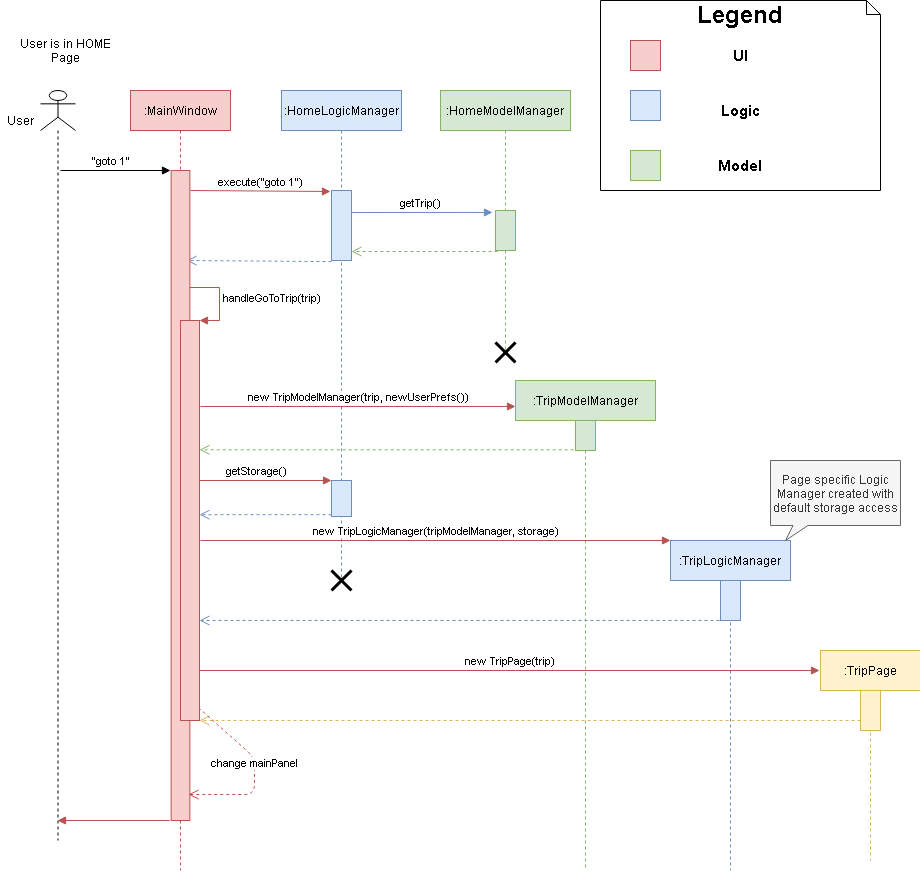
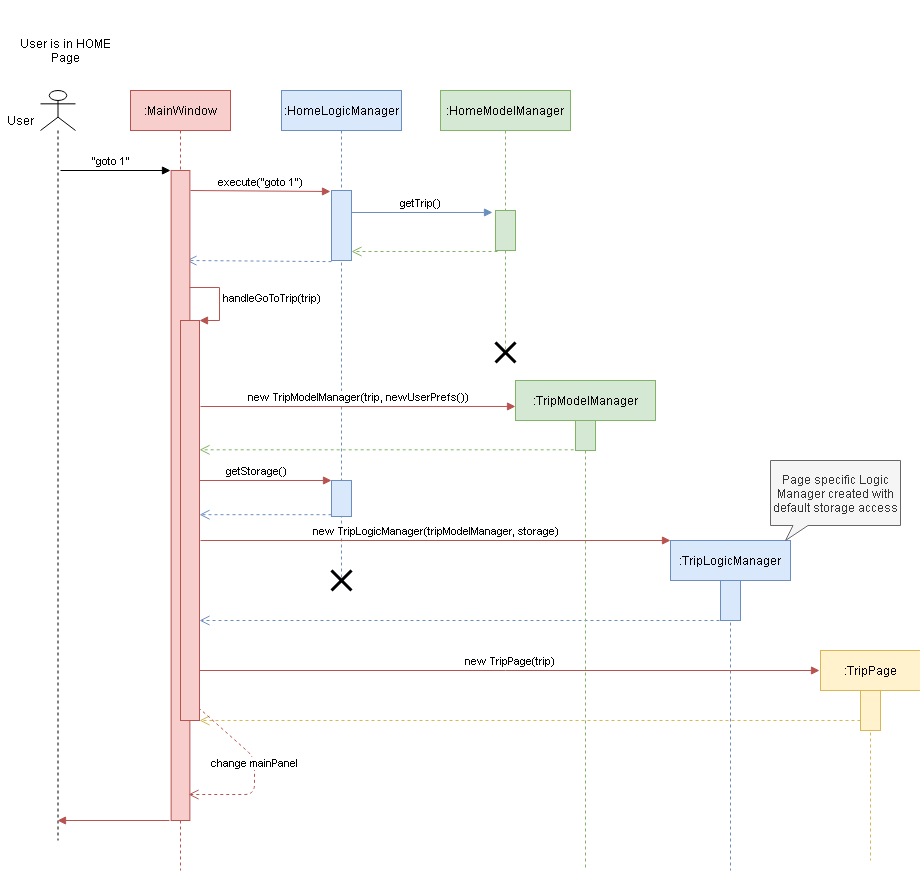
Rebuild pages at be37547c48dcacc990979f6f276a2c844f7ef29d

diff --git a/DeveloperGuide.html b/DeveloperGuide.html
@@ -67,6 +67,10 @@ application work together.</p>
 <div class="paragraph">
 <p><strong>Reading this Developer Guide</strong></p>
 </div>
+<div class="ulist">
+<ul>
+<li>
+<p><strong>Important Notations</strong><br></p>
 <div class="admonitionblock tip">
 <table>
 <tr>
@@ -90,6 +94,18 @@ This icon denotes important details to take note of during development.
 </td>
 </tr>
 </table>
+</div>
+</li>
+<li>
+<p><strong>Understanding Diagrams</strong><br>
+The diagrams in this Developer Guide are colour coded according to the different components.</p>
+<div class="imageblock">
+<div class="content">
+<img src="/images/dg-diagram-legend.png" alt="dg diagram legend">
+</div>
+</div>
+</li>
+</ul>
 </div>
 </div>
 </div>
@@ -199,21 +215,22 @@ for command execution on the <code>JOURNAL</code> page.</p>
 <p>The <em>Sequence Diagram</em> below shows how the components interact with each other for the scenario where the user issues
 the command <code>back</code> when in a <code>TRIP</code> view. View switching is executed by the <code>Ui</code> component.</p>
 </div>
-<div class="imageblock" style="text-align: center">
+<div id="view-switch-sequence" class="imageblock" style="text-align: center">
 <div class="content">
 <img src="images/ArchitectureSequenceDiagram.png" alt="ArchitectureSequenceDiagram">
 </div>
 <div class="title">Figure 3. Component interactions for <code>back</code> command in the <code>TRIP</code> view.</div>
 </div>
 <div class="paragraph">
-<p>The <em>Sequence Diagram</em> below illustrates how the components interact with each other for the scenario where the user issues the command <code>goto 1</code> when in a <code>HomePage</code> view.
+<p>The <em>Sequence Diagram</em> below illustrates how the components interact with each other for the scenario where the user
+issues the command <code>goto 1</code> when in a <code>HOME</code> page view.
 View switching is executed by the <code>Ui</code> component.</p>
 </div>
 <div class="imageblock" style="text-align: center">
 <div class="content">
 <img src="images/gotoCommandSequenceDiagram.png" alt="gotoCommandSequenceDiagram">
 </div>
-<div class="title">Figure 4. Component interactions for <code>goto 1</code> command in the <code>HomePage</code> view.</div>
+<div class="title">Figure 4. Component interactions for <code>goto 1</code> command in the <code>HOME</code> page view.</div>
 </div>
 <div class="paragraph">
 <p>The sections below give more details about each component.</p>
@@ -278,11 +295,8 @@ For example, <code>goto</code>, <code>back</code> and <code>home</code> navigati
 </li>
 </ol>
 </div>
-<div class="imageblock" style="text-align: center">
-<div class="content">
-<img src="images/ArchitectureSequenceDiagram.png" alt="ArchitectureSequenceDiagram">
-</div>
-<div class="title">Figure 6. Component interactions for <code>back</code> command in the <code>TRIP</code> view.</div>
+<div class="paragraph">
+<p><a href="#view-switch-sequence">You can view the sequence diagram for this process here.</a></p>
 </div>
 </div>
 </div>
@@ -297,7 +311,7 @@ For example, <code>goto</code>, <code>back</code> and <code>home</code> navigati
 <div class="content">
 <img src="images/JournalLogic.png" alt="JournalLogic">
 </div>
-<div class="title">Figure 7. Structure of the Logic Component</div>
+<div class="title">Figure 6. Structure of the Logic Component</div>
 </div>
 <div class="paragraph">
 <p><strong>API</strong> :
@@ -329,7 +343,7 @@ For example, <code>goto</code>, <code>back</code> and <code>home</code> navigati
 <div class="content">
 <img src="images/DeleteItinerary.png" alt="DeleteItinerary">
 </div>
-<div class="title">Figure 8. Interactions Inside the Logic Component for the <code>delete 1</code> Command</div>
+<div class="title">Figure 7. Interactions Inside the Logic Component for the <code>delete 1</code> Command</div>
 </div>
 </div>
 <div class="sect2">
@@ -338,7 +352,7 @@ For example, <code>goto</code>, <code>back</code> and <code>home</code> navigati
 <div class="content">
 <img src="images/JournalModelDiagram.png" alt="JournalModelDiagram">
 </div>
-<div class="title">Figure 9. Structure of the Model Component in Journal</div>
+<div class="title">Figure 8. Structure of the Model Component in Journal</div>
 </div>
 <div class="paragraph">
 <p><strong>API</strong> : <a href="https://github.com/AY1920S2-CS2103T-F09-4/main/src/main/java/seedu/location/model/Model.java"><code>Model.java</code></a></p>
@@ -366,7 +380,7 @@ For example, <code>goto</code>, <code>back</code> and <code>home</code> navigati
 <div class="content">
 <img src="images/ItineraryModelDiagram.png" alt="ItineraryModelDiagram">
 </div>
-<div class="title">Figure 10. Structure of the Model Component in Itinerary</div>
+<div class="title">Figure 9. Structure of the Model Component in Itinerary</div>
 </div>
 <div class="paragraph">
 <p>The <code>Model</code> for <code>ITINERARY</code>,
@@ -395,7 +409,7 @@ For example, <code>goto</code>, <code>back</code> and <code>home</code> navigati
 <div class="content">
 <img src="images/StorageClassDiagram.png" alt="StorageClassDiagram">
 </div>
-<div class="title">Figure 11. Structure of the Storage Component</div>
+<div class="title">Figure 10. Structure of the Storage Component</div>
 </div>
 <div class="paragraph">
 <p><strong>API</strong> : <a href="https://github.com/AY1920S2-CS2103T-F09-4/main/blob/master/src/main/java/seedu/volant/commons/storage/Storage.java"><code>Storage.java</code></a></p>
@@ -431,7 +445,7 @@ For example, <code>goto</code>, <code>back</code> and <code>home</code> navigati
 <div class="sect2">
 <h3 id="implementation-view-switching"><a class="link" href="#implementation-view-switching">4.1. View Switching for Navigation Commands</a></h3>
 <div class="paragraph">
-<p>The entire process of view switching is done in the <code>MainWindow</code> class.</p>
+<p>The entire process of view switching is executed in the <code>MainWindow.java</code> class.</p>
 </div>
 <div class="admonitionblock tip">
 <table>
@@ -536,7 +550,7 @@ displayed.</p>
 <div class="content">
 <img src="images/AddTripActivityDiagram.png" alt="AddTripActivityDiagram">
 </div>
-<div class="title">Figure 12. Activity Diagram for <code>add</code> Command</div>
+<div class="title">Figure 11. Activity Diagram for <code>add</code> Command</div>
 </div>
 </div>
 <div class="sect3">
@@ -628,7 +642,7 @@ The sort feature allows user to sort the entries in the <code>JOURNAL</code> of 
 <div class="content">
 <img src="images/SortActivityDiagram.png" alt="SortActivityDiagram" width="]">
 </div>
-<div class="title">Figure 13. Activity Diagram for <code>sort</code> Command</div>
+<div class="title">Figure 12. Activity Diagram for <code>sort</code> Command</div>
 </div>
 </div>
 </div>
@@ -689,7 +703,7 @@ The sort feature allows user to sort the entries in the <code>JOURNAL</code> of 
 <div class="content">
 <img src="images/AddActivity.png" alt="AddActivity" width="]">
 </div>
-<div class="title">Figure 14. Activity Diagram for <code>add</code> Command</div>
+<div class="title">Figure 13. Activity Diagram for <code>add</code> Command</div>
 </div>
 </div>
 <div class="sect3">
@@ -756,7 +770,7 @@ The sort feature allows user to sort the entries in the <code>JOURNAL</code> of 
 <div class="content">
 <img src="images/FindItinerary.png" alt="FindItinerary" width="]">
 </div>
-<div class="title">Figure 15. Activity Diagram for <code>find</code> Command</div>
+<div class="title">Figure 14. Activity Diagram for <code>find</code> Command</div>
 </div>
 </div>
 <div class="sect3">
@@ -807,7 +821,7 @@ The sort feature allows user to sort the entries in the <code>JOURNAL</code> of 
 <div class="content">
 <img src="images/user-guide/data-storage.png" alt="data storage">
 </div>
-<div class="title">Figure 16. Data Storage in Volant</div>
+<div class="title">Figure 15. Data Storage in Volant</div>
 </div>
 <div class="paragraph">
 <p>The data files are organised in a way that trip details are stored in <code>volant.json</code>, while journal and itinerary details
@@ -907,7 +921,7 @@ time, location, feeling and weather.</p>
 <div class="content">
 <img src="images/addTripStorageActivityDiagram.png" alt="addTripStorageActivityDiagram">
 </div>
-<div class="title">Figure 17. Activity diagram for adding a new trip</div>
+<div class="title">Figure 16. Activity diagram for adding a new trip</div>
 </div>
 <div class="paragraph">
 <p>The process is similar for the scenario where the user adds a new activity to the itinerary, and the <code>itinerary.json</code>
@@ -917,7 +931,7 @@ data file is updated. The following activity diagram summarises this process:</p
 <div class="content">
 <img src="images/addActivityStorageActivityDiagram.png" alt="addActivityStorageActivityDiagram">
 </div>
-<div class="title">Figure 18. Activity diagram for adding a new activity</div>
+<div class="title">Figure 17. Activity diagram for adding a new activity</div>
 </div>
 </div>
 <div class="sect3">
@@ -959,7 +973,7 @@ deleted.</p>
 <div class="content">
 <img src="images/editTripStorageActivityDiagram.png" alt="editTripStorageActivityDiagram">
 </div>
-<div class="title">Figure 19. Activity diagram for editing a trip</div>
+<div class="title">Figure 18. Activity diagram for editing a trip</div>
 </div>
 </div>
 <div class="sect3">
@@ -1000,7 +1014,7 @@ summarises what happens when a user deletes a journal entry or itinerary activit
 <div class="content">
 <img src="images/deleteStorageActivityDiagram.png" alt="deleteStorageActivityDiagram">
 </div>
-<div class="title">Figure 20. Activity diagram for deleting a journal entry/itinerary activity</div>
+<div class="title">Figure 19. Activity diagram for deleting a journal entry/itinerary activity</div>
 </div>
 </div>
 </div>
@@ -2045,4 +2059,4 @@ Expected: Similar to previous.</p>
 </div>
 </div>
 </div>
-</div></div><div id="footer"><div class="container"><div id="footer-text">Last updated 2020-04-13 09:43:06 UTC</div></div></div></body></html>
+</div></div><div id="footer"><div class="container"><div id="footer-text">Last updated 2020-04-13 09:56:24 UTC</div></div></div></body></html>

diff --git a/Testing.html b/Testing.html
@@ -90,4 +90,4 @@ e.g. <code>seedu.volant.home.logic.HomeLogicManagerTest</code></p>
 <div class="title">Figure 1. <code>Accessibility</code> permission is granted to <code>IntelliJ IDEA</code></div>
 </div>
 </div>
-</div></div><div id="footer"><div class="container"><div id="footer-text">Last updated 2020-04-13 09:43:06 UTC</div></div></div></body></html>
+</div></div><div id="footer"><div class="container"><div id="footer-text">Last updated 2020-04-13 09:56:24 UTC</div></div></div></body></html>

diff --git a/ContactUs.html b/ContactUs.html
@@ -9,4 +9,4 @@
 <p><strong>Contributing</strong> : We welcome pull requests. Follow the process described <a href="https://github.com/oss-generic/process">here</a></p>
 </li>
 </ul>
-</div></div><div id="footer"><div class="container"><div id="footer-text">Last updated 2020-04-13 09:43:06 UTC</div></div></div></body></html>
+</div></div><div id="footer"><div class="container"><div id="footer-text">Last updated 2020-04-13 09:56:24 UTC</div></div></div></body></html>

diff --git a/LearningOutcomes.html b/LearningOutcomes.html
@@ -474,4 +474,4 @@ of storages, but different number of storages (e.g. save to both a text file and
 </div>
 </div>
 </div>
-</div></div><div id="footer"><div class="container"><div id="footer-text">Last updated 2020-04-13 09:43:06 UTC</div></div></div></body></html>
+</div></div><div id="footer"><div class="container"><div id="footer-text">Last updated 2020-04-13 09:56:24 UTC</div></div></div></body></html>

diff --git a/SettingUp.html b/SettingUp.html
@@ -180,4 +180,4 @@ Having both Travis and AppVeyor ensures your App works on both Unix-based platfo
 </div>
 </div>
 </div>
-</div></div><div id="footer"><div class="container"><div id="footer-text">Last updated 2020-04-13 09:43:06 UTC</div></div></div></body></html>
+</div></div><div id="footer"><div class="container"><div id="footer-text">Last updated 2020-04-13 09:56:24 UTC</div></div></div></body></html>

diff --git a/team/grrrrnt.html b/team/grrrrnt.html
@@ -148,4 +148,4 @@ This is especially useful since the words "itinerary" and "journal" may be long 
 </div>
 </div>
 </div>
-</div></div><div id="footer"><div class="container"><div id="footer-text">Last updated 2020-04-13 09:43:06 UTC</div></div></div></body></html>
+</div></div><div id="footer"><div class="container"><div id="footer-text">Last updated 2020-04-13 09:56:24 UTC</div></div></div></body></html>

diff --git a/team/raniceyue.html b/team/raniceyue.html
@@ -256,4 +256,4 @@ I have made a total of 7 issues, one sharing technical information and another w
 </div>
 </div>
 </div>
-</div></div><div id="footer"><div class="container"><div id="footer-text">Last updated 2020-04-13 09:43:06 UTC</div></div></div></body></html>
+</div></div><div id="footer"><div class="container"><div id="footer-text">Last updated 2020-04-13 09:56:24 UTC</div></div></div></body></html>

diff --git a/team/zsoh97.html b/team/zsoh97.html
@@ -146,4 +146,4 @@ implement and test the functionalities of our features, developers had to have d
 </div>
 </div>
 </div>
-</div></div><div id="footer"><div class="container"><div id="footer-text">Last updated 2020-04-13 09:43:06 UTC</div></div></div></body></html>
+</div></div><div id="footer"><div class="container"><div id="footer-text">Last updated 2020-04-13 09:56:24 UTC</div></div></div></body></html>

diff --git a/UsingCoveralls.html b/UsingCoveralls.html
@@ -111,4 +111,4 @@ If you have not set up Travis CI, see <a href="UsingTravis.html">UsingTravis.ado
 </ol>
 </div>
 </div>
-</div></div><div id="footer"><div class="container"><div id="footer-text">Last updated 2020-04-13 09:43:06 UTC</div></div></div></body></html>
+</div></div><div id="footer"><div class="container"><div id="footer-text">Last updated 2020-04-13 09:56:24 UTC</div></div></div></body></html>

diff --git a/UsingGradle.html b/UsingGradle.html
@@ -228,4 +228,4 @@ See <code>build.gradle</code> &#8594; <code>allprojects</code> &#8594; <code>dep
 </ul>
 </div>
 </div>
-</div></div><div id="footer"><div class="container"><div id="footer-text">Last updated 2020-04-13 09:43:06 UTC</div></div></div></body></html>
+</div></div><div id="footer"><div class="container"><div id="footer-text">Last updated 2020-04-13 09:56:24 UTC</div></div></div></body></html>

diff --git a/UsingNetlify.html b/UsingNetlify.html
@@ -138,4 +138,4 @@ The publish directory is the directory in which the built HTML documentation res
 </ol>
 </div>
 </div>
-</div></div><div id="footer"><div class="container"><div id="footer-text">Last updated 2020-04-13 09:43:06 UTC</div></div></div></body></html>
+</div></div><div id="footer"><div class="container"><div id="footer-text">Last updated 2020-04-13 09:56:24 UTC</div></div></div></body></html>

diff --git a/Documentation.html b/Documentation.html
@@ -226,4 +226,4 @@ The SE-EDU team does not provide support for modified template files.</p>
 </table>
 </div>
 </div>
-</div></div><div id="footer"><div class="container"><div id="footer-text">Last updated 2020-04-13 09:43:06 UTC</div></div></div></body></html>
+</div></div><div id="footer"><div class="container"><div id="footer-text">Last updated 2020-04-13 09:56:24 UTC</div></div></div></body></html>
